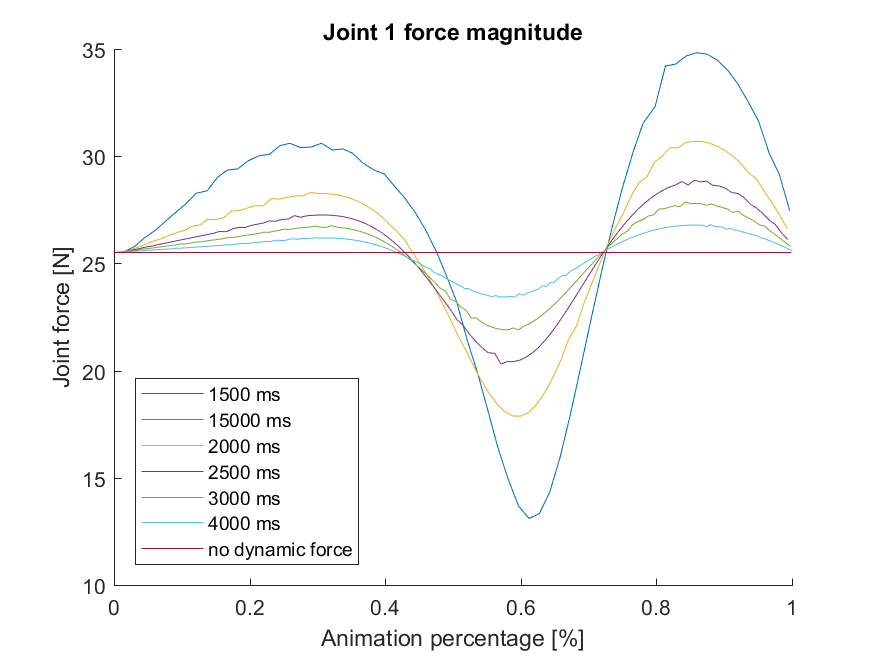
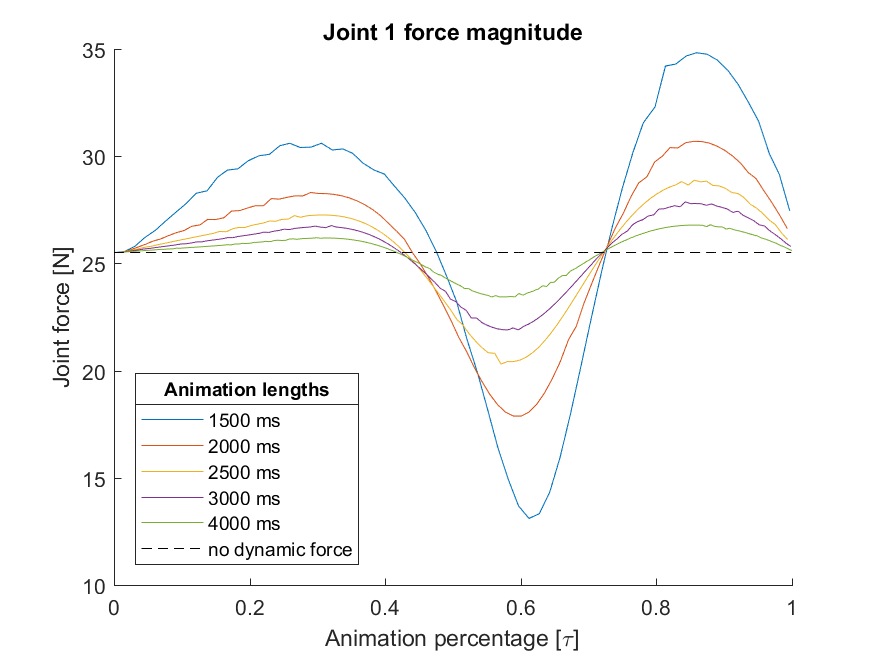
future work

diff --git a/tex/conclusion.tex b/tex/conclusion.tex
@@ -2,17 +2,15 @@
 
 \section{Discussion}
 
-\todo[inline]{
-\textbf{Todo}
+It is clear from \figref{results} that inertial forces play a big role at high accelerations. If the animation time was reduced with $50\%$ from $3000ms$ to $1500ms$ the max joint force went from $27.9N$ to $34.8N$. This is an increase of $\sim 25\%$ and the effect would be even more prominent at higher accelerations.
 
-- Does not include the joint's limitations
+Going back to the example case of the package moving manipulator in \figref{exampleCase}, it becomes clear that information about the inertial forces would be helpful in a number of situations. Before constructing a robot manipulator, the maximum force and torque could be found for a given acceleration and the robot engineered thereafter. In addition, under runtime the robot would now have some of the tools required to determine if a certain acceleration would produce larger torques that it can handle. It can then choose a slower trajectory because of this.
 
-- How is the performance of this method?
-}
+The validation software proved very useful. In some situations the graphical vectors did not make physical sense and many calculation errors were corrected because of this. The two main classes makes logical sense and the code base is relatively dense. It should be noted that many of the calculations are not done with efficiency in mind but rather a fast implementation time. This is something that has to improved in a production environment.
 
 \section{Future work}
+\subsection{Finishing the newton euler}
 \subsection{Implementation with GeoMod}
-\subsection{Limit and flexibility of joints}
-\subsection{Singularities}
-\subsection{Multivariable control}
+\subsection{Numeric safety when calculating derivatives}
+\subsection{Flexibility of joints}
 \subsection{Force control}

diff --git a/tex/validationSoftware.tex b/tex/validationSoftware.tex
@@ -37,6 +37,8 @@ This section will give a short overview of the two most important classes for th
 
 The \texttt{Robot} class can be seen in Listing 5.2 \todo{manual reference}. Links that make up the robot are stored in a c++ vector (line 4). Many of the calculations is done by looping through this vector. The function \textsf{newtonEuler()} is one of them and perform the dynamic calculations as described in \algref{nefAlgo}.
 
+In addition, multiple mathematical classes like matrices and vectors that handle algebraic operations were created.
+
 \section{Animation}
 
 As mentioned in section \ref{interfaceSec} a start and end angle, $\theta_0$ and $\theta_1$ is stored for each link. By evaluating the desired animation length and elapsed time an animation percentage $\tau$ is calculated. This value is passed to the method \textsf{Robot::animate(percentage)} which calculates the joint angle for each joint by \eqref{quintic}. This is a 5th degree polynomial used for trajectory planning with velocity and acceleration equal to zero at the start and end of the trajectory. See \figref{plot_position}.

diff --git a/matlab/results.m b/matlab/results.m
@@ -7,7 +7,7 @@ legends = {};
 for file = files'
     index = strfind(file.name, '.');    
     ms = str2num(file.name(1:index-1));
-    if ((ms >= 1100 && ms < 5000) || ms==15000)
+    if ((ms >= 1100 && ms < 5000))
         import = importdata(strcat(folder,file.name));
         percentage = import.data(:,1);
         force = import.data(:,plot_var);
@@ -19,10 +19,11 @@ end
 import = importdata(strcat(folder,"15000.csv"));
 percentage = import.data(:,1);
 force = import.data(:,plot_var);
-plot(percentage,force)
+plot(percentage,force, '--k')
 legends(end+1) = {'no dynamic force'};
-legend(legends,'Location','southwest')
+leg = legend(legends,'Location','southwest')
 title('Joint 1 force magnitude')
-xlabel('Animation percentage [%]')
+xlabel('Animation percentage [\tau]')
 ylabel('Joint force [N]')
+title(leg, 'Animation lengths')
 saveas(gcf,'plots/joint_force_comp.png')

diff --git a/tex/results.tex b/tex/results.tex
@@ -32,7 +32,7 @@ The addition to the joint force because of inertial forces are directly related 
 
 \begin{figure}[h!]
     \centering
-    \includegraphics[width=.9\textwidth]{joint_force_comp}
+    \includegraphics[width=.95\textwidth]{joint_force_comp}
     \caption{Joint force magnitude for multiple animation lengths}
     \label{results}
 \end{figure}

diff --git a/matlab/comparison.m b/matlab/comparison.m
@@ -1,0 +1,13 @@
+clc, clear, close
+plot_var = 5;
+folder = '../../robot_control/output/';
+ms15 = importdata(strcat(folder,"1500.csv"));
+f15 = ms15.data(:,plot_var);
+max(f15)
+
+
+ms30 = importdata(strcat(folder,"3000.csv"));
+f30 = ms30.data(:,plot_var);
+max(f30)
+
+max(f15)/max(f30)

diff --git a/snippet/Link.h b/snippet/Link.h
@@ -6,8 +6,7 @@ class Link
     vec torque;
     double q;
     double q_prev;
-    int last_update = 0;
-	
+    int last_update = 0;	
 	// Methods //
     void change_theta(double theta);
     void newton_euler_forward(int inc_dynamic_eff);

diff --git a/snippet/Robot.h b/snippet/Robot.h
@@ -2,8 +2,7 @@ class Robot
 {
 	// Attributes //	
 	vector<Link*> links;
-	Transformation T;
-	
+	Transformation T;	
 	// Methods //
 	void addLink(Link* link);
 	void change_theta(double theta, int link_index);
